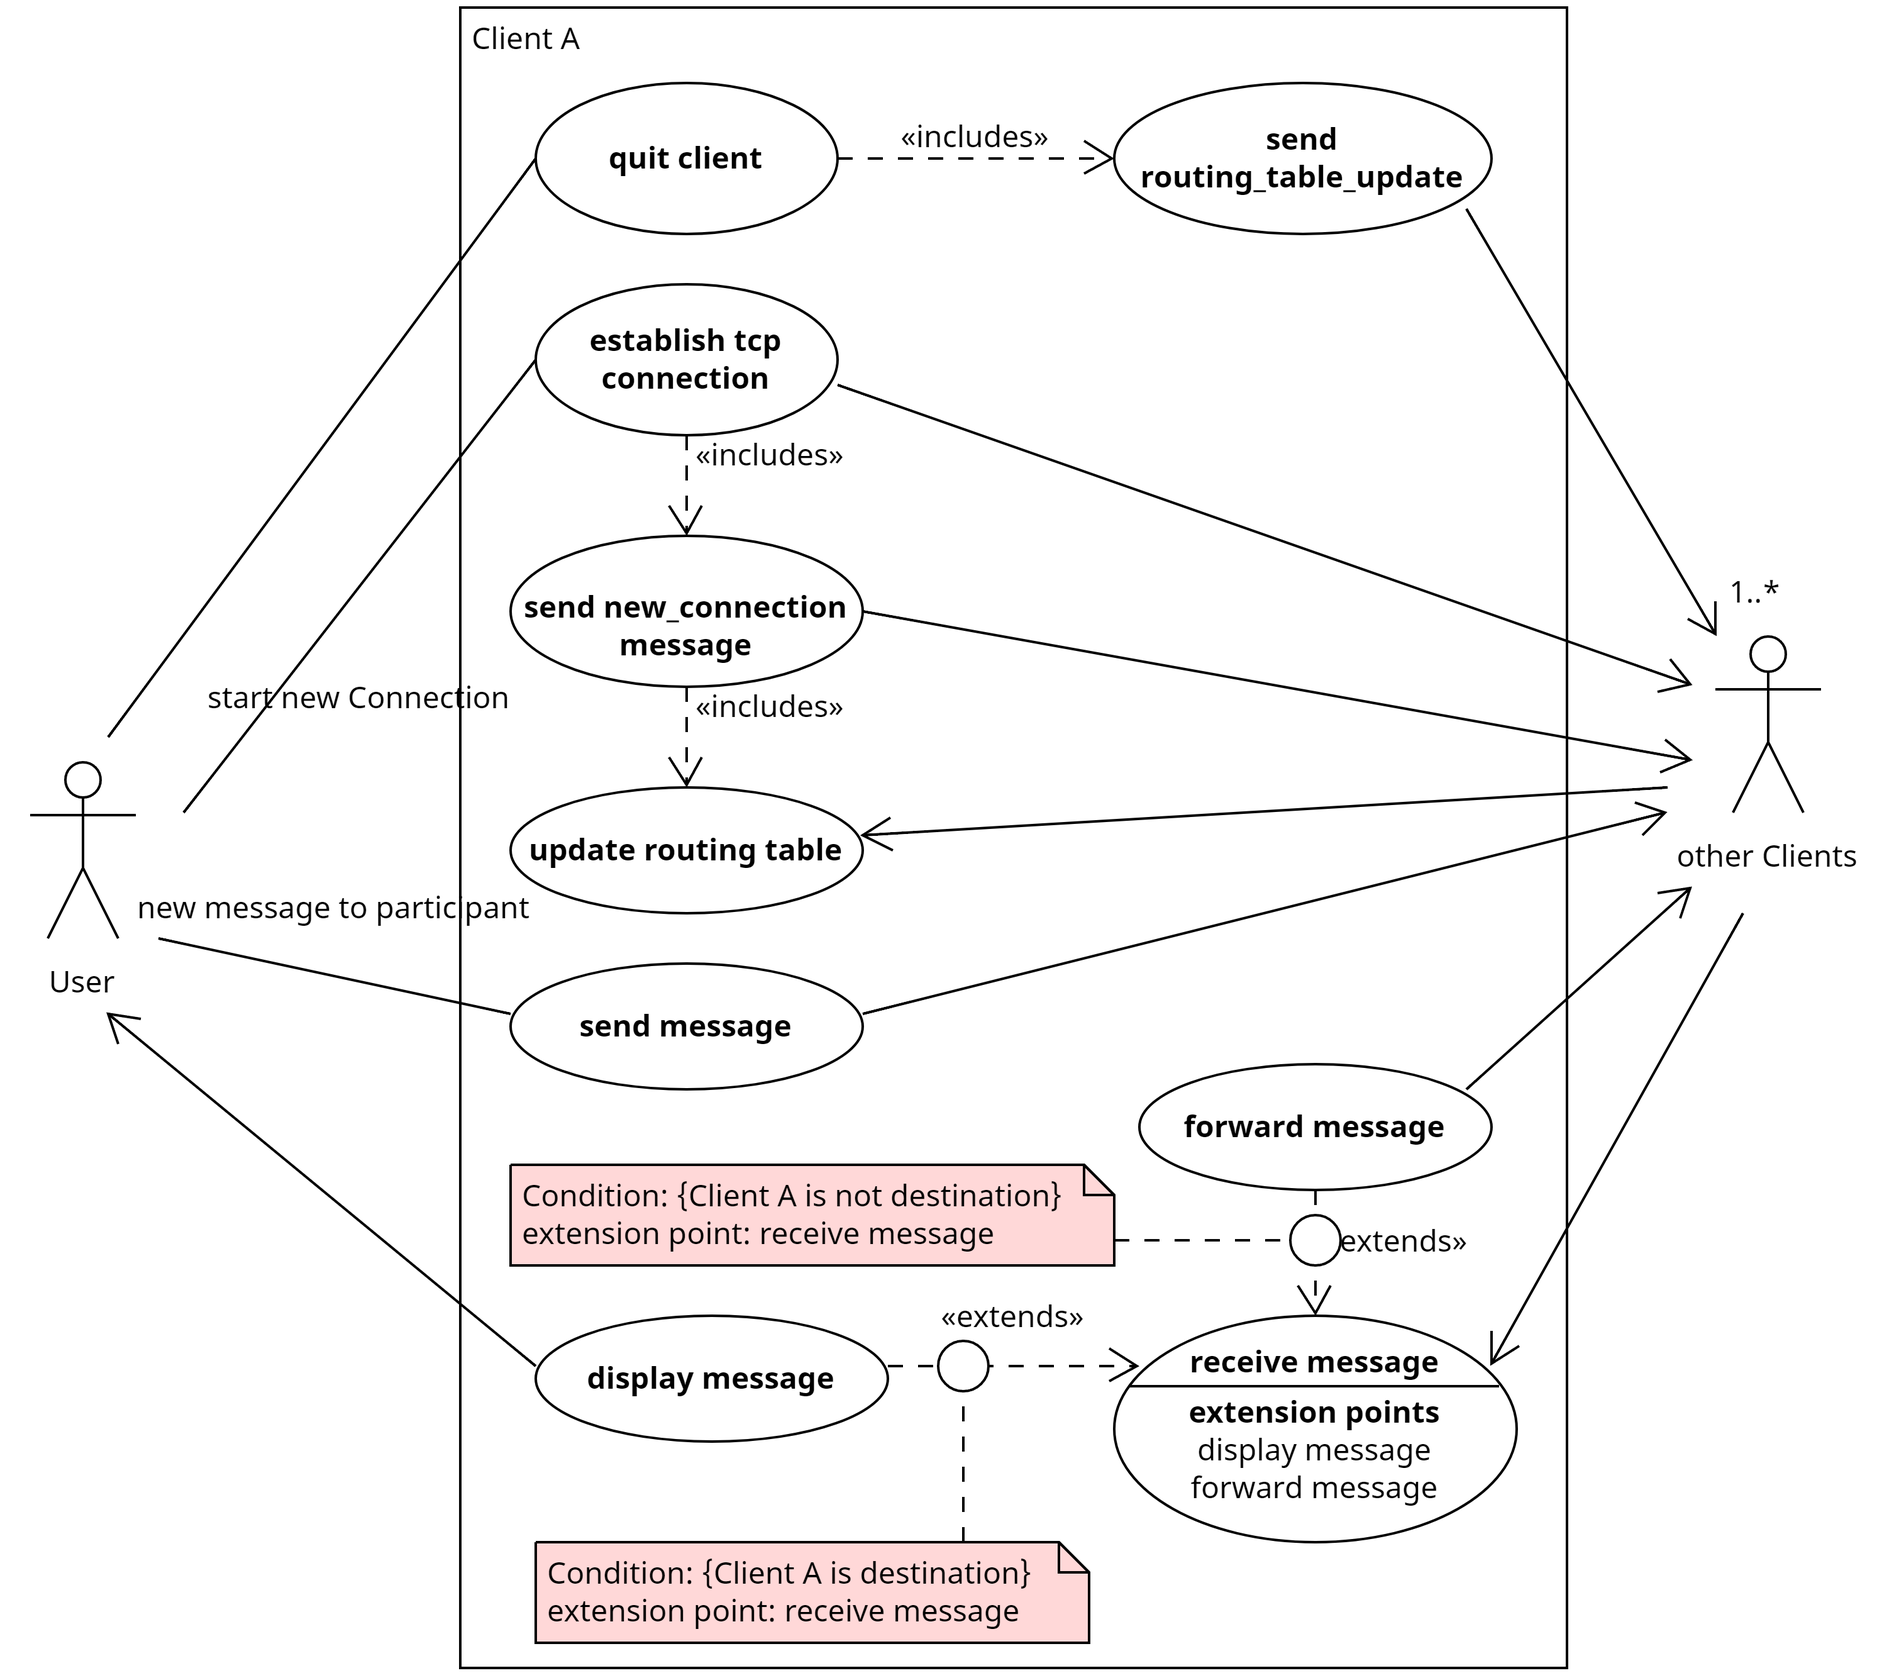
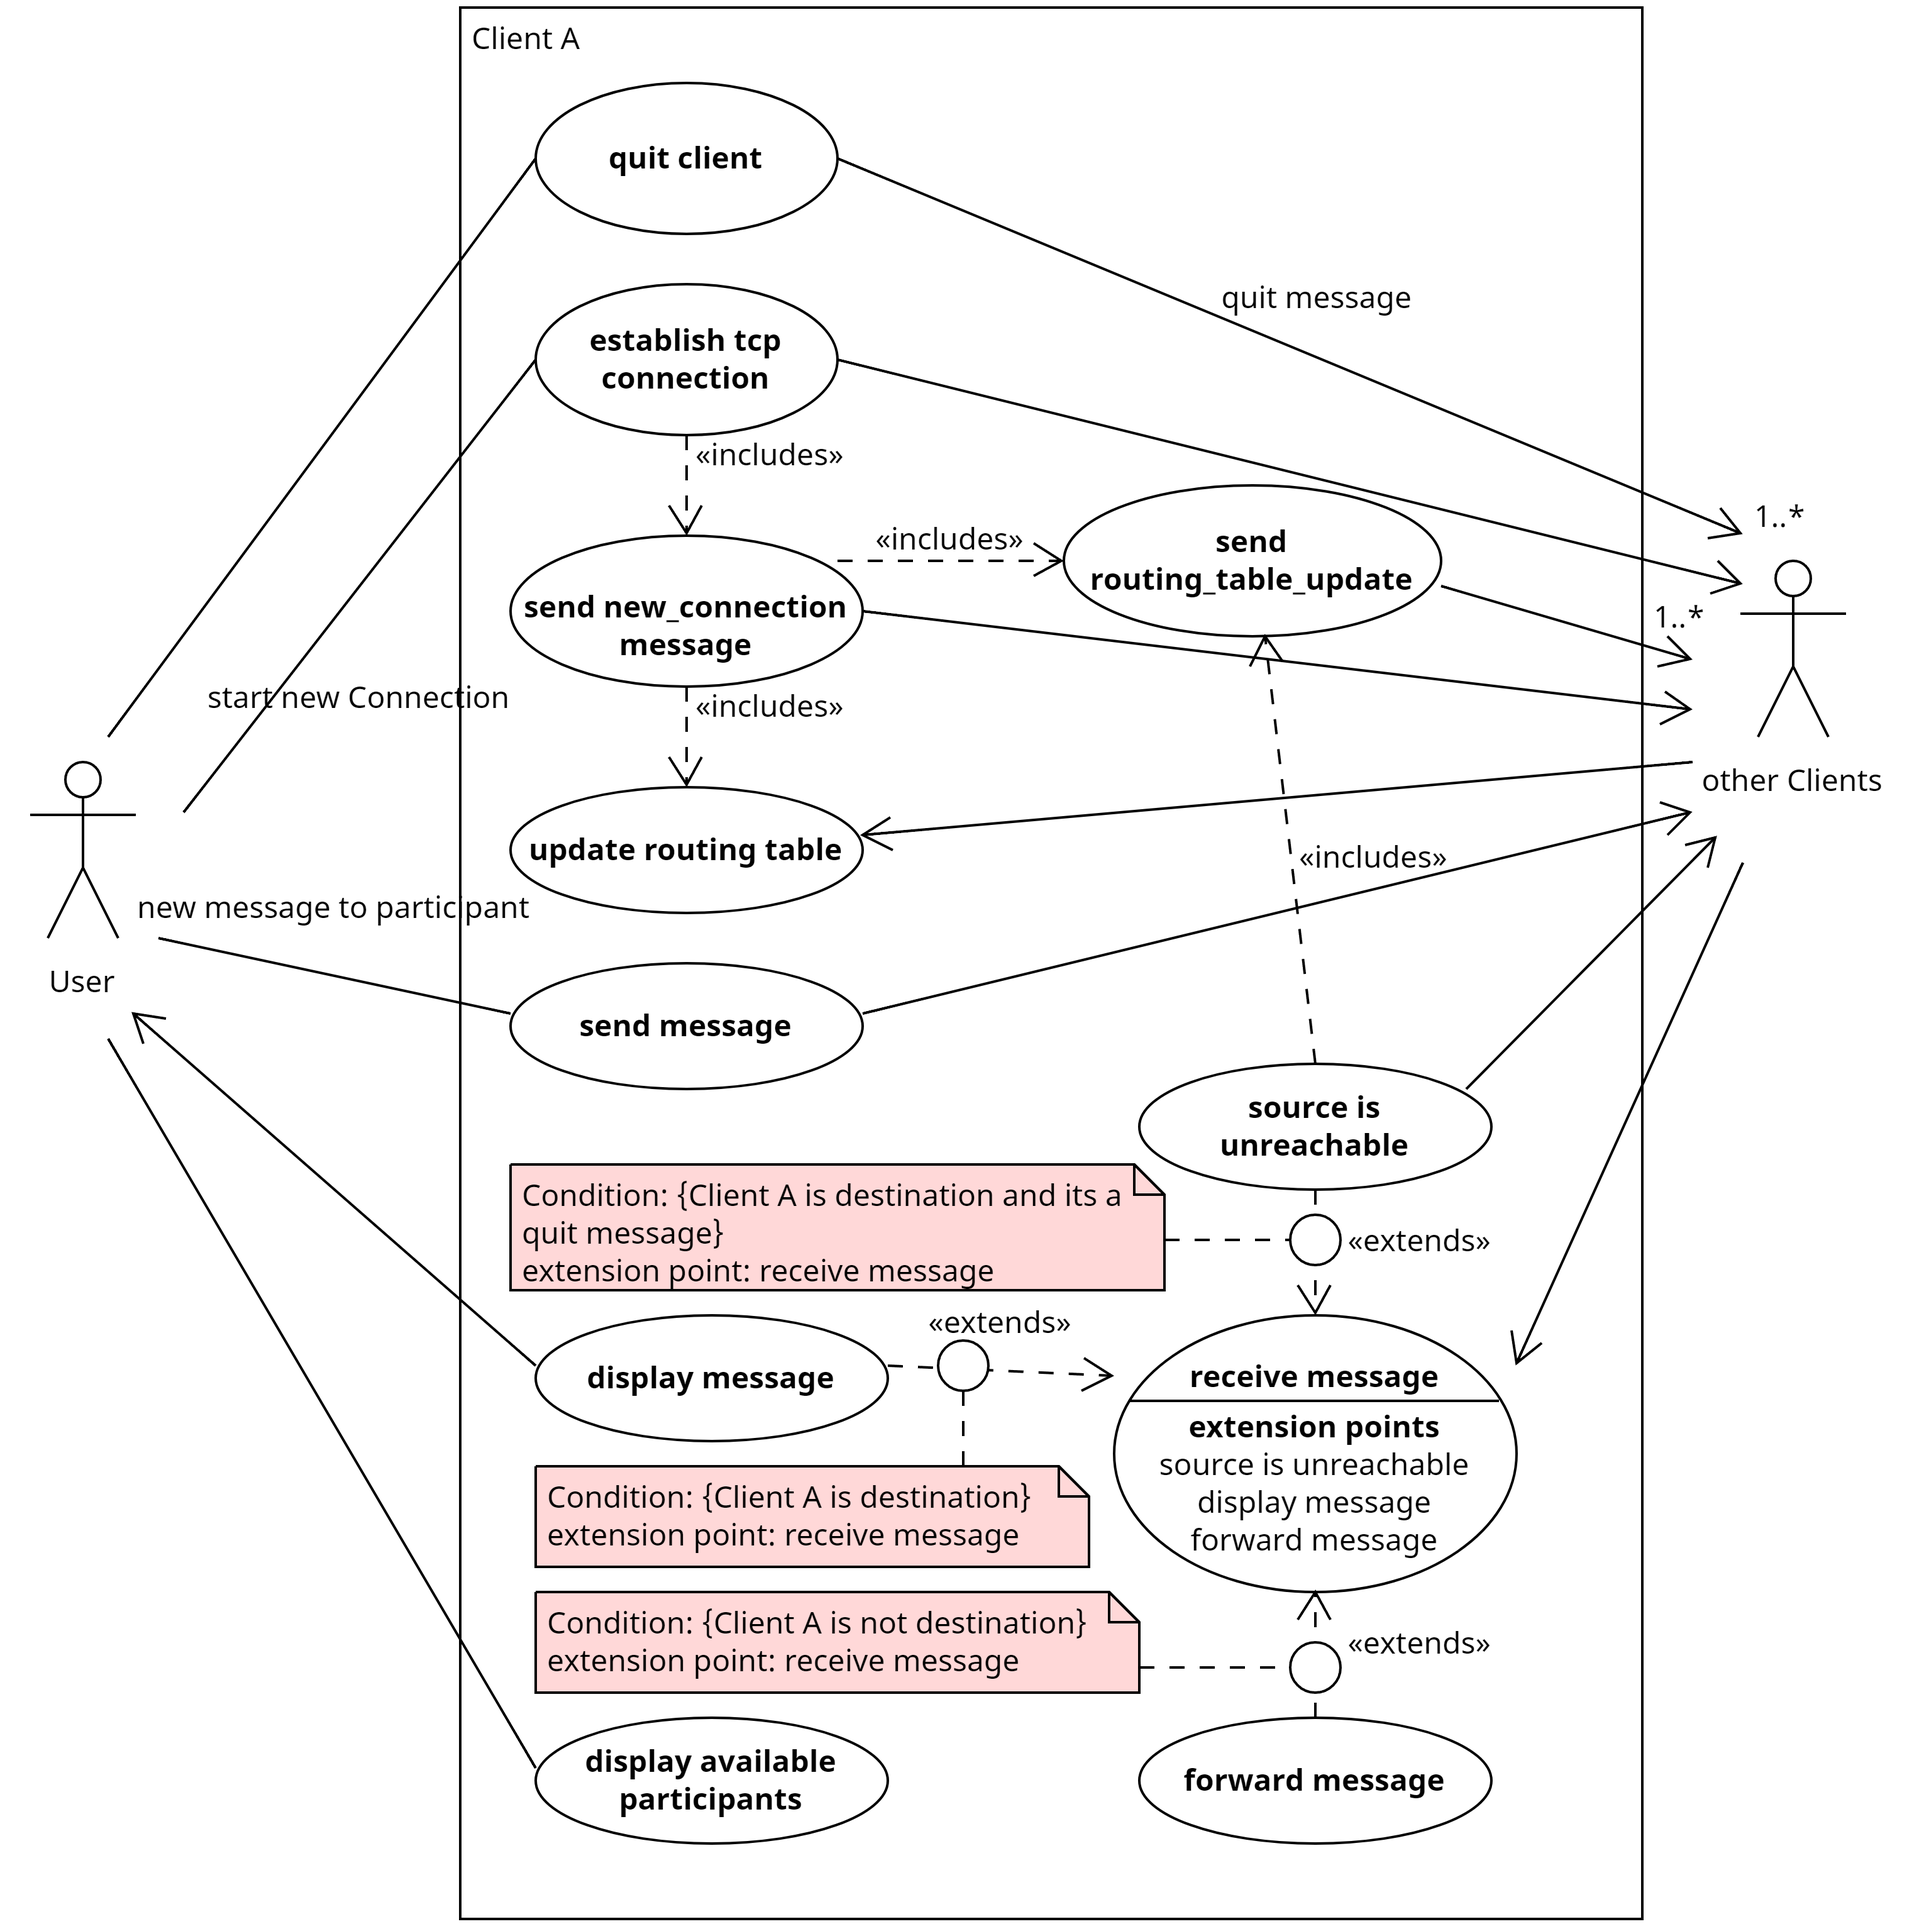
v2

diff --git a/protocol/02_use_cases.md b/protocol/02_use_cases.md
@@ -11,11 +11,13 @@ Client A receives a message and checks its destination address. If Client A is n
 Every X seconds Client A sends a routing_table_update to all directly connected Clients containing all information in Client A's routing table besides the routing information it got from the individual Clients. When receiving routing_table_update Client A will update its routing table with any new information from it.
 
 ### 4. Quit Client
-Client A marks all routes reachable through it including itself as unreachable and sends a routing table update 
+Client A sends a quit_message to all directly connected Clients. Afterwards the program ends itself.
 
-
+### 5. source is unavailable
+Client A marks all routes in its routing table reachable through the source including the source itself as unreachable and sends a routing table update.
 
 #### Client specific
 - send message
 - receive message
 - display message
+- display available participants
